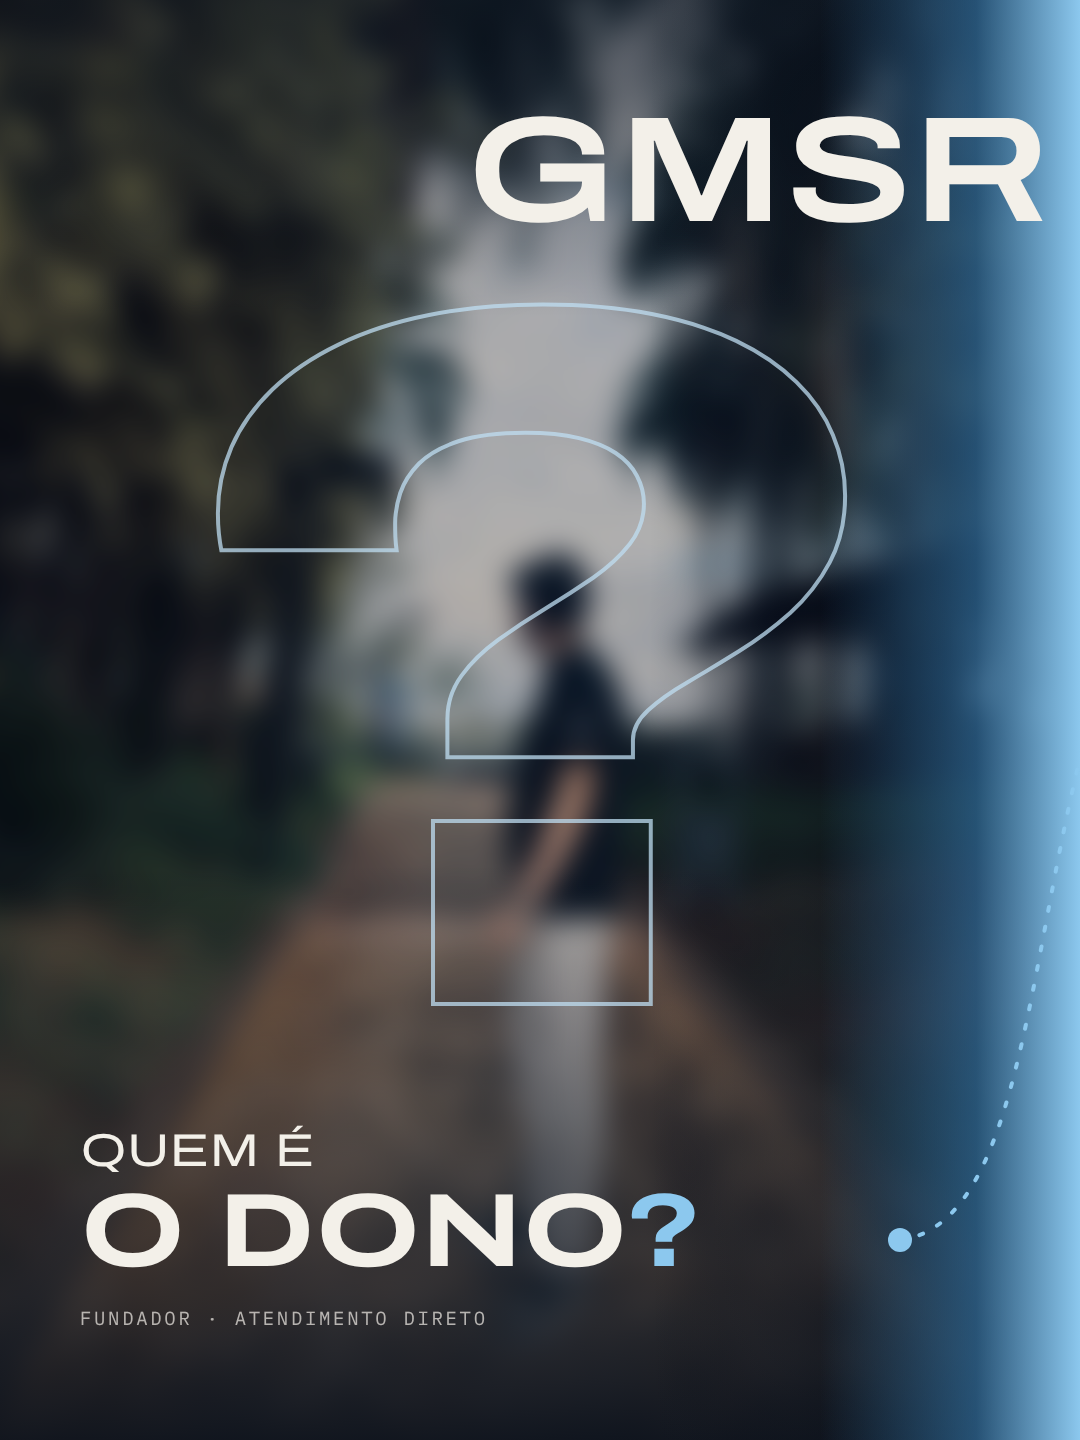
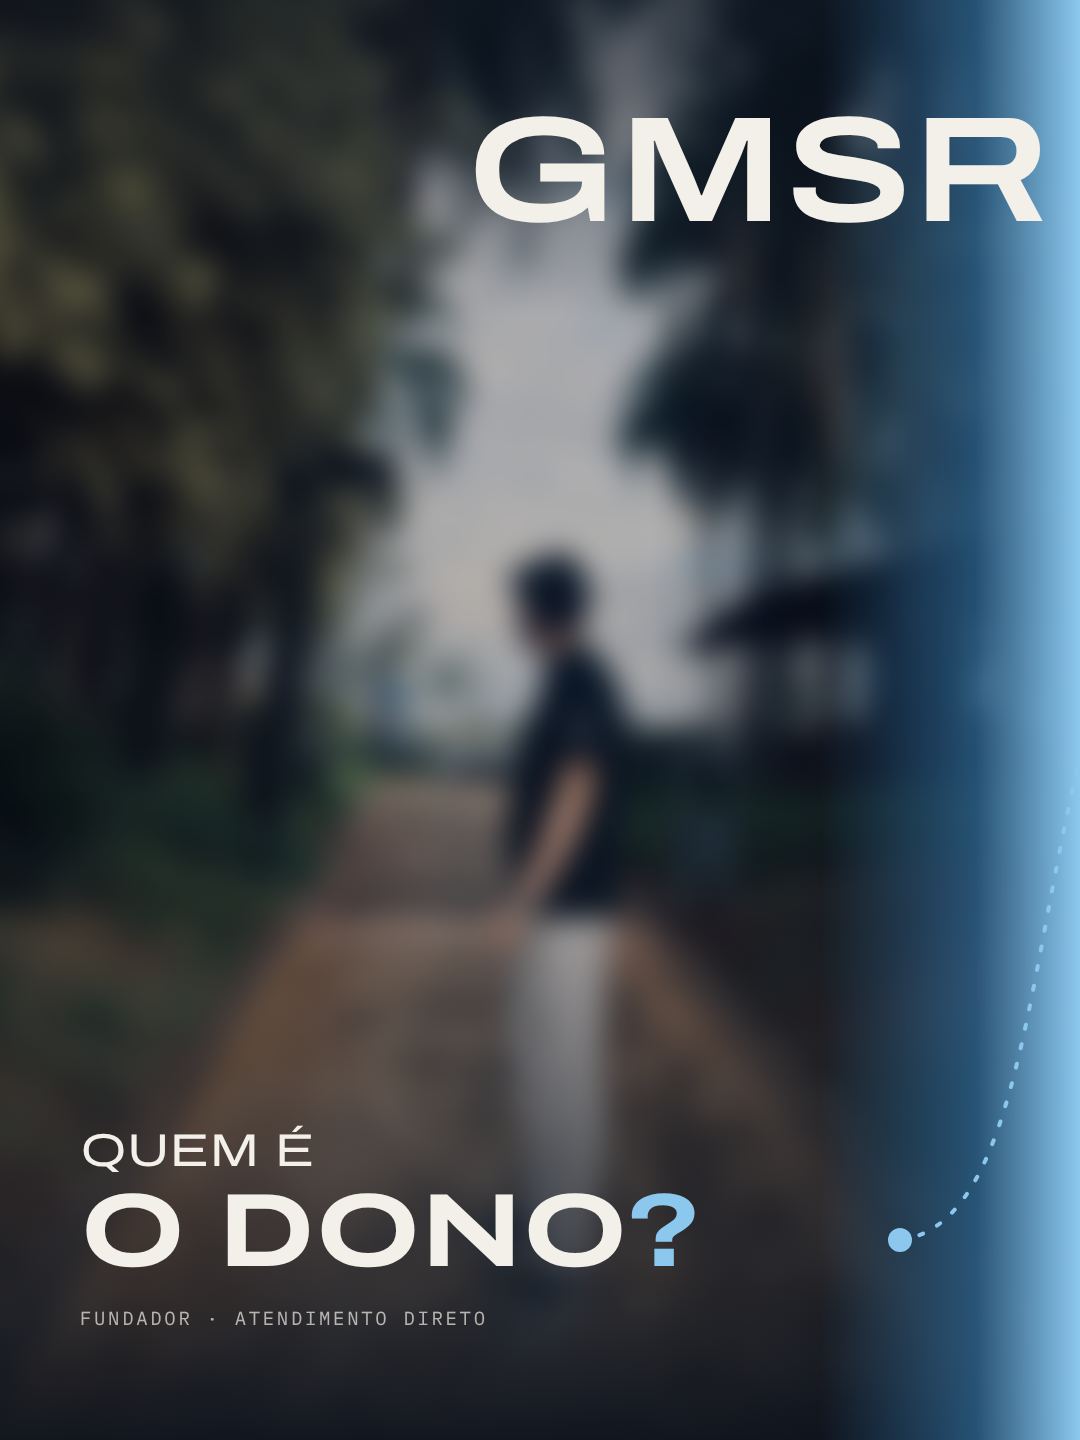
"Quem é o dono": remove o "?" grande, fica só a foto com blur
Claude-Session: https://claude.ai/code/session_018Rxm36svjxPgU3W8TLCnbb

diff --git a/posts-grade/03-carrossel-processo/slides.html b/posts-grade/03-carrossel-processo/slides.html
@@ -105,7 +105,7 @@
 <body>
 <template id="art">
   <div class="pano">
-    <div class="photo blur"><img src="../../assets/fotos/dono-blur.jpg" alt=""><div class="ask">?</div></div>
+    <div class="photo blur"><img src="../../assets/fotos/dono-blur.jpg" alt=""></div>
     <div class="edge3"></div>
 
     <!-- rota tracejada que liga o meio à direita -->

diff --git a/posts-grade/04-carrossel-dono/slides.html b/posts-grade/04-carrossel-dono/slides.html
@@ -126,7 +126,7 @@
 <body>
 <template id="art">
   <div class="pano">
-    <div class="photo blur"><img src="../../assets/fotos/dono-blur.jpg" alt=""><div class="ask">?</div></div>
+    <div class="photo blur"><img src="../../assets/fotos/dono-blur.jpg" alt=""></div>
     <div class="edge3"></div>
 
     <!-- rota tracejada que liga o meio à direita -->

diff --git a/posts-grade/02-grade-mapa-processo/slides.html b/posts-grade/02-grade-mapa-processo/slides.html
@@ -83,7 +83,7 @@
 
 <template id="art">
   <div class="pano">
-    <div class="photo blur"><img src="../../assets/fotos/dono-blur.jpg" alt=""><div class="ask">?</div></div>
+    <div class="photo blur"><img src="../../assets/fotos/dono-blur.jpg" alt=""></div>
     <div class="edge3"></div>
 
     <!-- rota tracejada que liga o meio à direita -->
